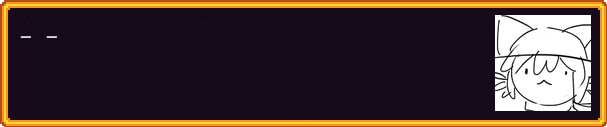
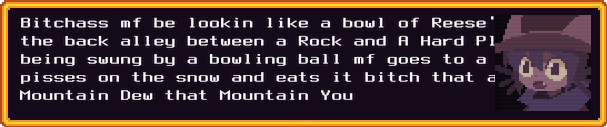
Added a defer() to make gifs not timeout

Changed region(s): [[0.0297, 0.1181, 0.9786, 0.874], [0.0297, 0.7087, 0.5931, 0.8031]]

diff --git a/functions.py b/functions.py
@@ -3,10 +3,7 @@ from PIL import ImageDraw
 from PIL import ImageFont
 import textwrap
 import os
-import discord
-from discord.ext import commands
-from discord_slash import SlashCommand, SlashContext
-from discord_slash.utils.manage_commands import create_choice, create_option
+from discord_slash.utils.manage_commands import create_choice
 import math
 # Don't change this, this imports functions which are used below
 
@@ -15,6 +12,7 @@ def percentgen(num1, num2):
 
 # \/ copied from https://levelup.gitconnected.com/how-to-properly-calculate-text-size-in-pil-images-17a2cc6f51fd \/
 def get_text_dimensions(text_string, font):
+    text_string = str(text_string)
     # https://stackoverflow.com/a/46220683/9263761
     ascent, descent = font.getmetrics()
 
@@ -23,29 +21,38 @@ def get_text_dimensions(text_string, font):
 
     return (text_width, text_height)
 
-def maketextbox(text, expression, wrap=25):
+def bettertextwrap(text, font, size):
+  currentsize = 0
+  outlist = []
+  for i in range(len(text)):
+    width, height = get_text_dimensions(i, font)
+    currentsize += width
+    if currentsize > size:
+      outlist.append(text[:i-1])
+      text = text[i:]
+      currentsize = width
+  return(outlist)
+
+def maketextbox(text, expression, wrap=35):
   fontsize = 25
   if len(text) > 100:
     percent = percentgen(100, len(text))
-    print(percent)
     fontsize = math.floor((fontsize*percent)*(2))
-    print(fontsize, fontsize*percent*(2), percent)
     wrap = round((wrap/(percent)*1.3)/2)
   if fontsize > 25:
     fontsize = 25
-  fontshot = ImageFont.truetype('/home/runner/Nikomaker-testing/Font/Terminus (TTF) Bold 700.ttf', fontsize)
-  # load the font, you can remove Bold and change 700 to 500 for non bold text. 30 is the font size.
-  text = textwrap.wrap(text, width=wrap)
+  fontshot = ImageFont.truetype('/home/runner/Nikomaker/Font/Terminus (TTF) Bold 700.ttf', fontsize)
+  # load the font, you can remove Bold and change 700 to 500 for non bold text. 35 is the font size.
+  text_width, text_height = get_text_dimensions(text, fontshot)
+  text = textwrap.wrap(text, width=wrap, break_long_words=True)
   # Wraps the text, lowering width wraps it earlier, increasing it wraps it later
   textbox = Image.open('Textbox.png').convert('RGBA')
   editbox = ImageDraw.Draw(textbox)
-  print('Amount of newlines: ',len(text))
   newlinecount = len(text)+1
-  print(text)
   text = '\n'.join(text)
   text_width, text_height = get_text_dimensions(text, fontshot)
   
-  if newlinecount > 4:
+  if newlinecount > 5:
     img = Image.new('RGBA', ((450, text_height*newlinecount)), (255, 0, 0, 0))
     imgedit = ImageDraw.Draw(img)
     imgedit.text((0, 0), text, font=fontshot, fill=(255, 255, 255))
@@ -61,7 +68,7 @@ def maketextbox(text, expression, wrap=25):
     editbox.text((20, 15), text, font=fontshot, fill=(255, 255, 255))
 
     
-  nikoimgface = Image.open(f'/home/runner/Nikomaker-testing/Niko_expressions/{expression}').convert('RGBA')
+  nikoimgface = Image.open(f'/home/runner/Nikomaker/Niko_expressions/{expression}').convert('RGBA')
   nikoimgface = nikoimgface.resize((96, 96))
   textbox.paste(nikoimgface, (495, 15), nikoimgface)
   return(textbox)
@@ -97,16 +104,23 @@ def entitytoworldmachine(directory):
       newname = f.replace('en_', 'TWM_')
       os.rename(f, newname)
 
+
+
 def makeanimatedtextbox(text, expression):
   frames = []
-  textiter = []
+  durations = []
   for i in range(len(text)):
-    new_frame = maketextbox(text[:i], expression, 25)
-    frames.append(new_frame)
-  for i in range(30):
-    frames.append(maketextbox(text, expression, 25))
+    try:
+      new_frame = maketextbox(text[:i], expression, 25)
+      frames.append(new_frame)
+    except:
+      pass
+  frames.append(maketextbox(text, expression))
+  for i in frames:
+    durations.append(50)
+  durations[-1] = 4500
   frames[0].save('drafts/animateddraft.gif', format='GIF',
-               append_images=frames[1:], save_all=True, duration=100, loop=0)
+               append_images=frames[1:], save_all=True, duration=durations, loop=0)
 
 def createflasksite():
   from flask import Flask

diff --git a/main.py b/main.py
@@ -3,9 +3,8 @@ import os
 import discord
 from discord.ext import commands
 from discord_slash import SlashCommand, SlashContext
-from discord_slash.utils.manage_commands import create_choice, create_option
+from discord_slash.utils.manage_commands import create_option
 from flask import Flask
-import flask
 from threading import Thread
 from datetime import datetime
 
@@ -80,16 +79,18 @@ async def _textbox(ctx:SlashContext, text:str, expression:str, animated:bool=Fal
   print('---------------------------------------')
   print(datetime.now().strftime("%d/%m/%Y %H:%M:%S"), '\n\n', displayvars, '\n\n', ctx.author)
   print('----------------------------------------\n')
-  if len(text) > 100:
-    animated = 0
   if animated == 0:
     functions.maketextbox(text, expression).save('drafts/draft.png')
     newimg = 'drafts/draft.png'
+    await ctx.send(file=discord.File(newimg))
   else:
+    oldtime = datetime.now()
+    await ctx.defer()
     functions.makeanimatedtextbox(text, expression)
+    newtime = datetime.now()
+    print(f'Took {newtime-oldtime} seconds')
     newimg = 'drafts/animateddraft.gif'
-  await ctx.send(file=discord.File(newimg))
-
+    await ctx.send(file=discord.File(newimg))
 #@client.event
 #async def on_ready():
   #createflasksite()
